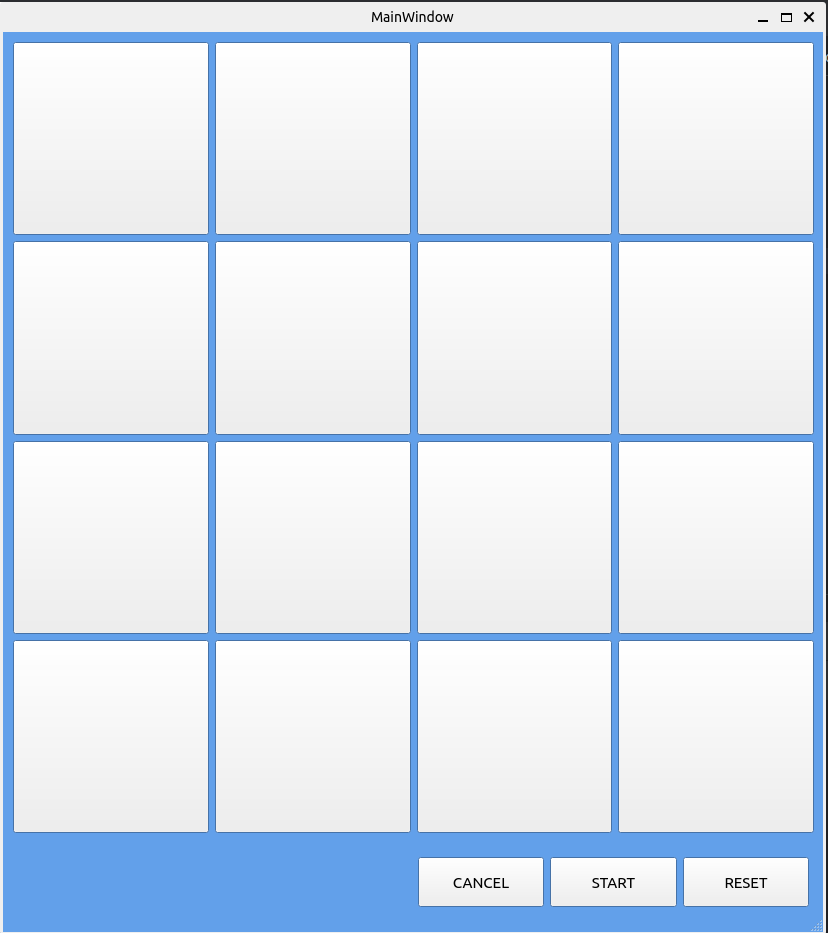
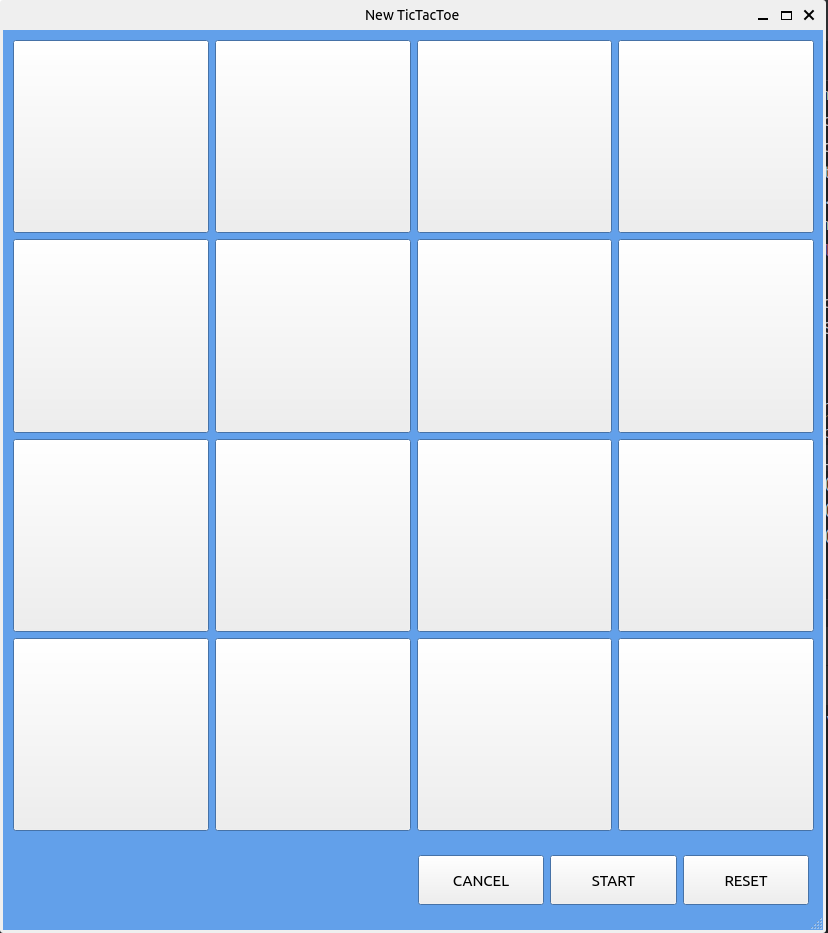
fix: update ui and Readme.md

diff --git a/tictactoe_ui.py b/tictactoe_ui.py
@@ -168,7 +168,7 @@ class Ui_MainWindow(object):
 
     def retranslateUi(self, MainWindow):
         _translate = QtCore.QCoreApplication.translate
-        MainWindow.setWindowTitle(_translate("MainWindow", "MainWindow"))
+        MainWindow.setWindowTitle(_translate("MainWindow", "New TicTacToe"))
         self.pushButton_19.setText(_translate("MainWindow", "CANCEL"))
         self.pushButton_18.setText(_translate("MainWindow", "START"))
         self.pushButton_17.setText(_translate("MainWindow", "RESET"))
